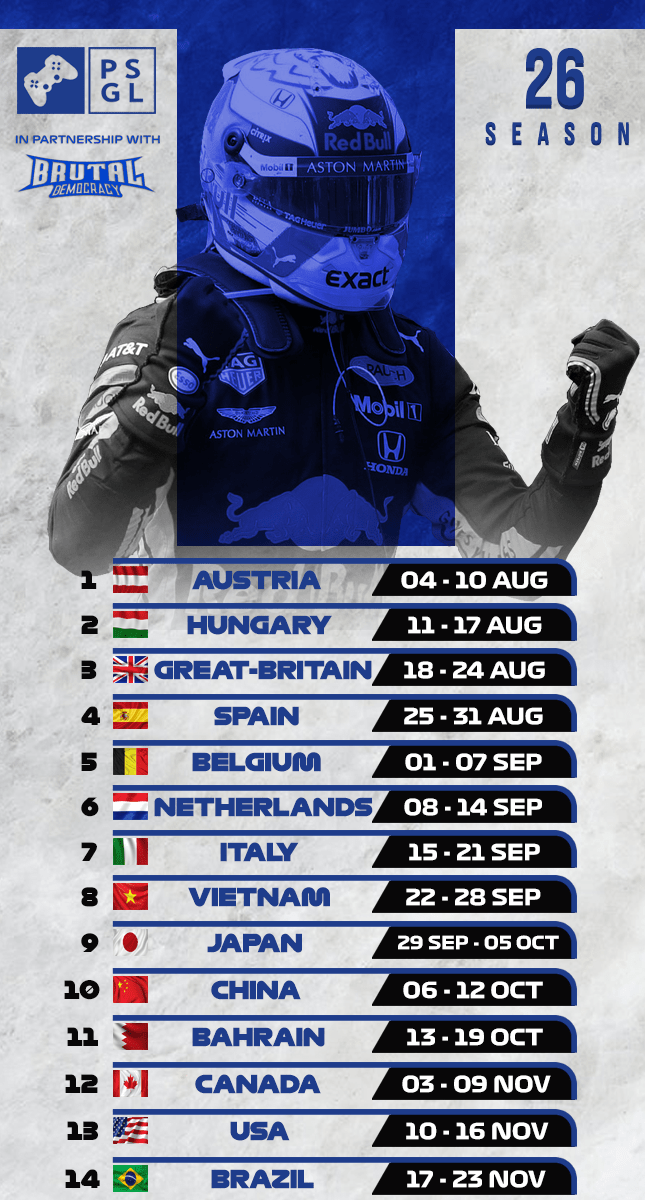
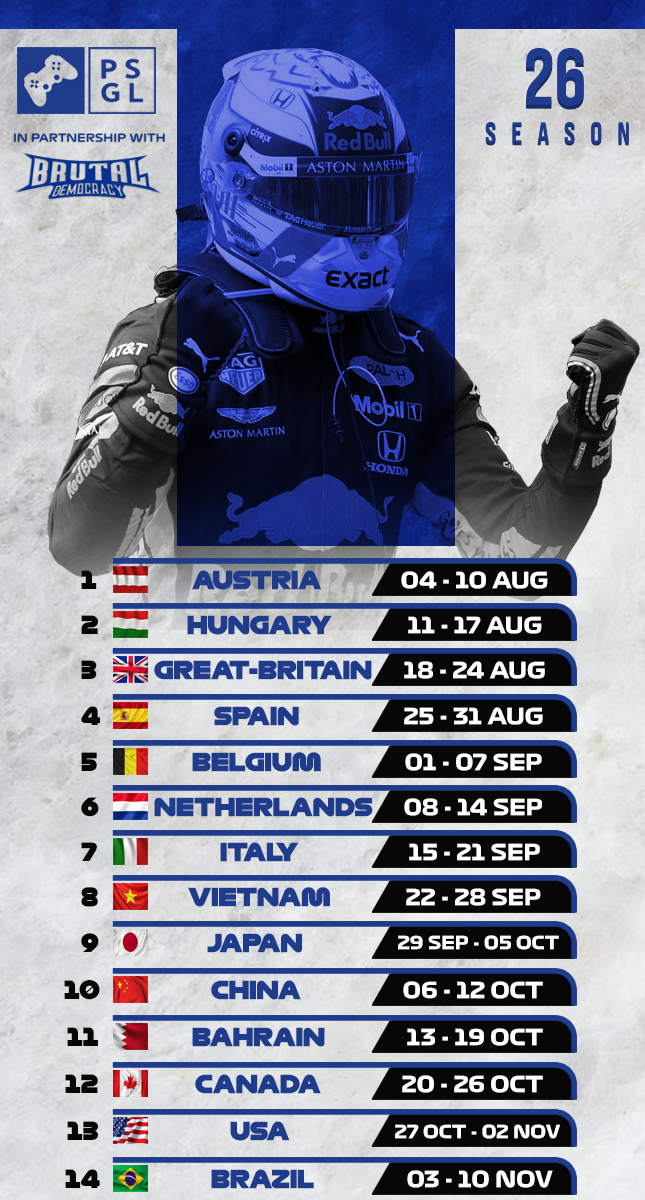
Updated f1 calendar.

Changed region(s): [[0.6202, 0.8942, 0.8682, 1.0], [0.031, 0.0925, 0.2481, 0.185], [0.186, 0.5858, 0.2171, 0.6167]]

diff --git a/_calendars/f1.md b/_calendars/f1.md
@@ -10,6 +10,6 @@ menu_hide: false
 
 <div class="center">
 
-![](/f12020/calendar.jpg)
+![](/f12020/calendar.png)
 
 </div>
